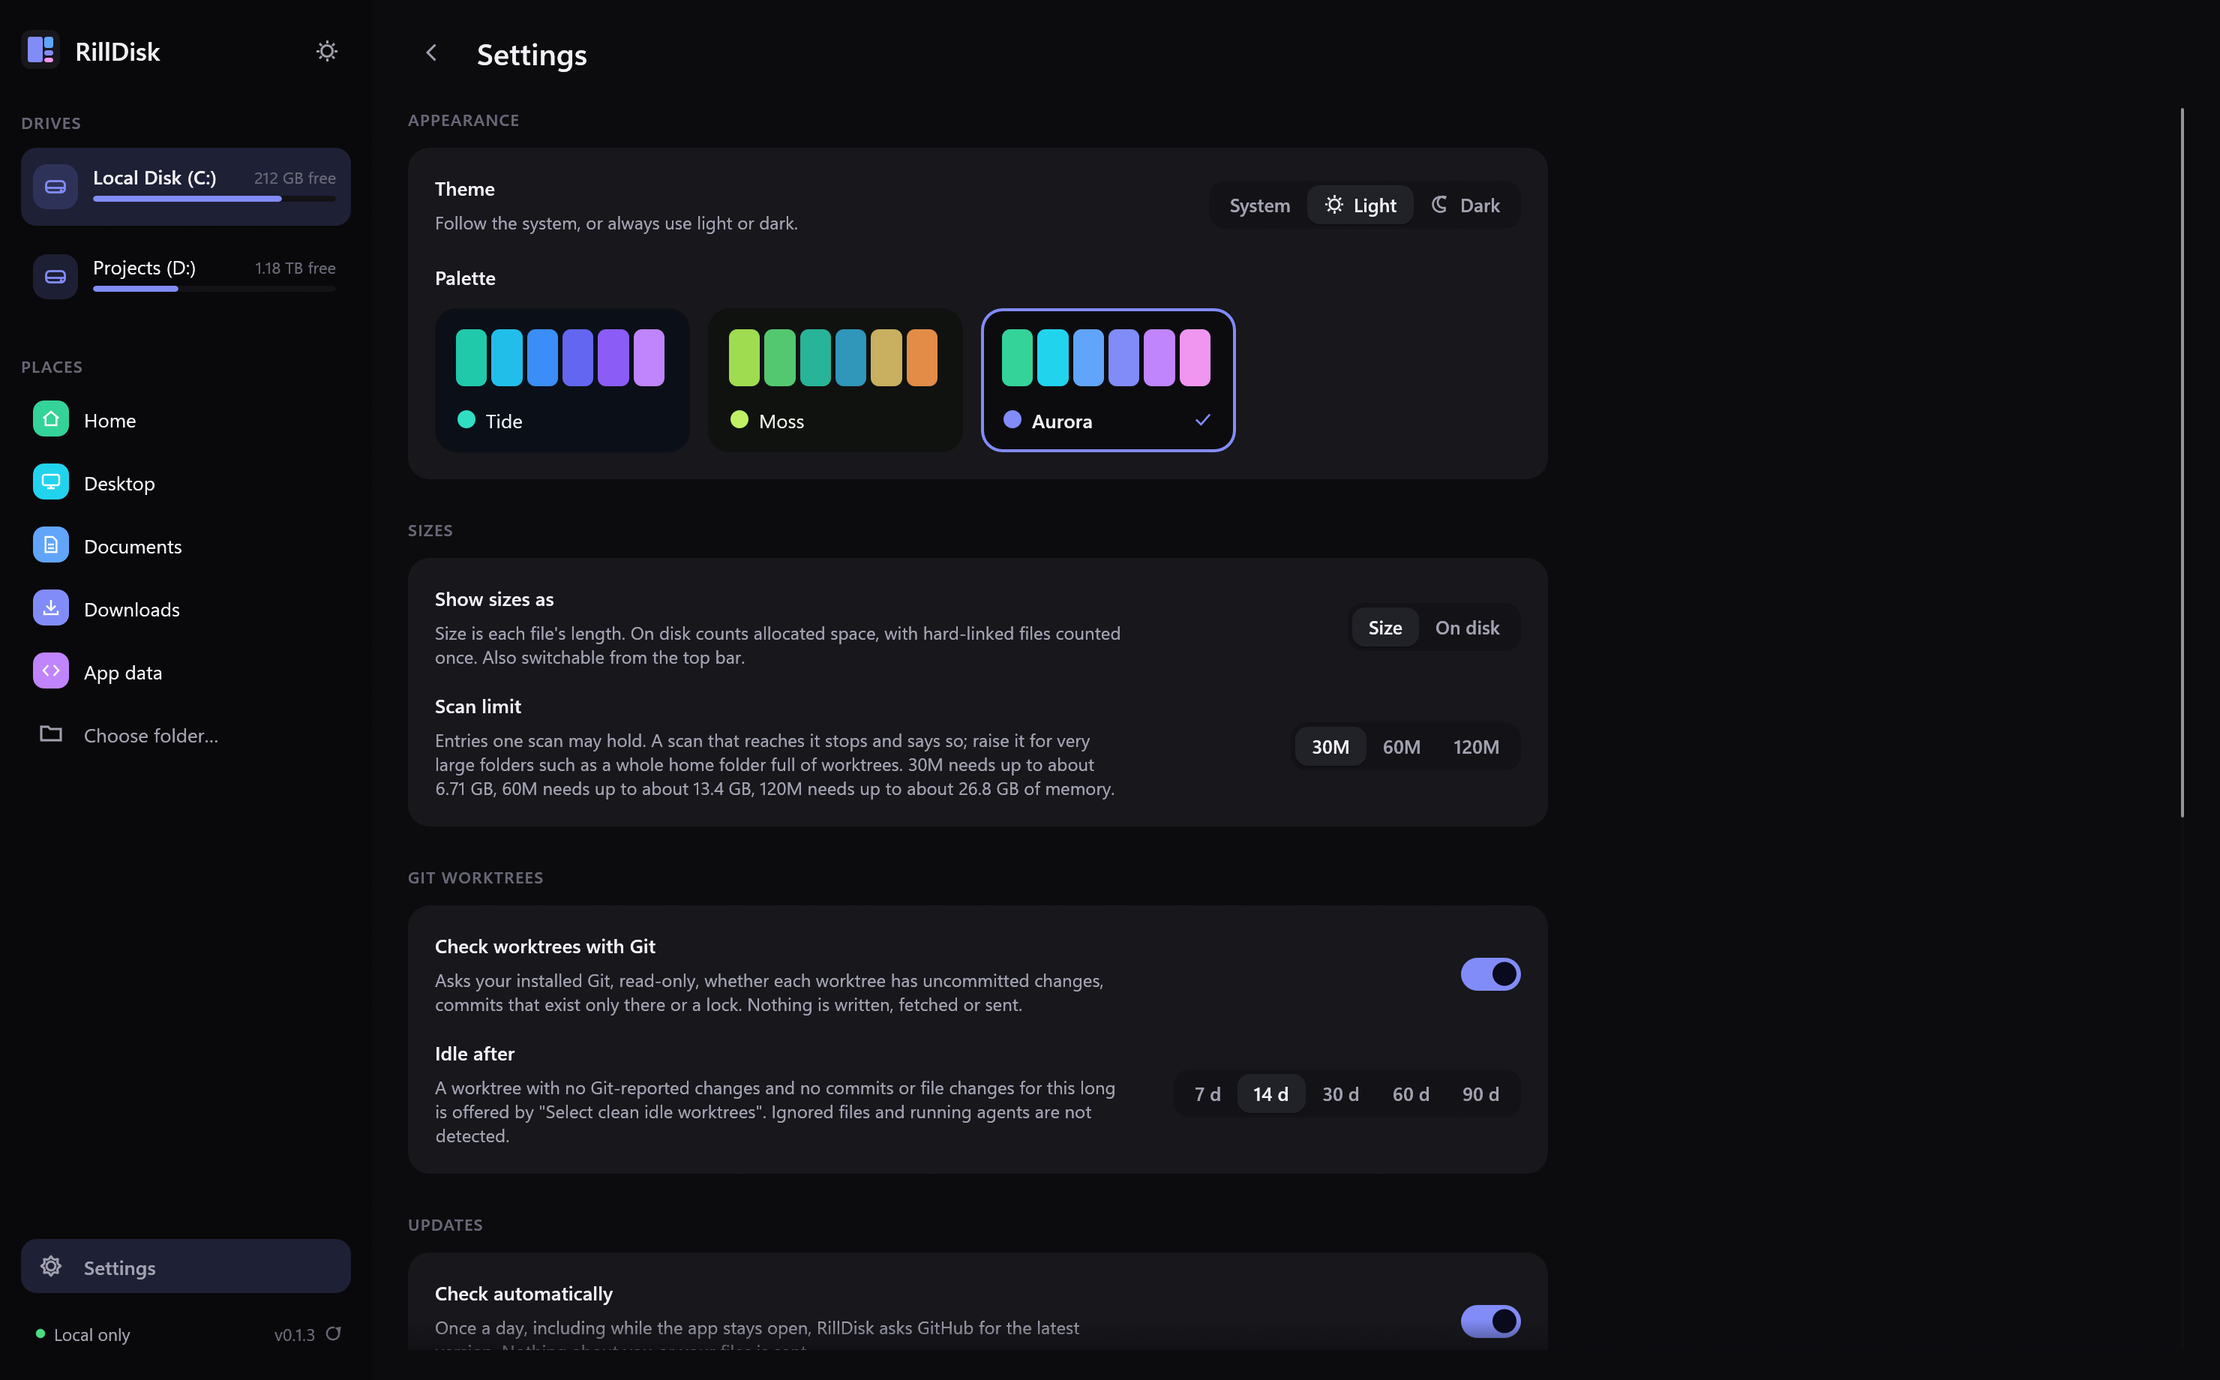
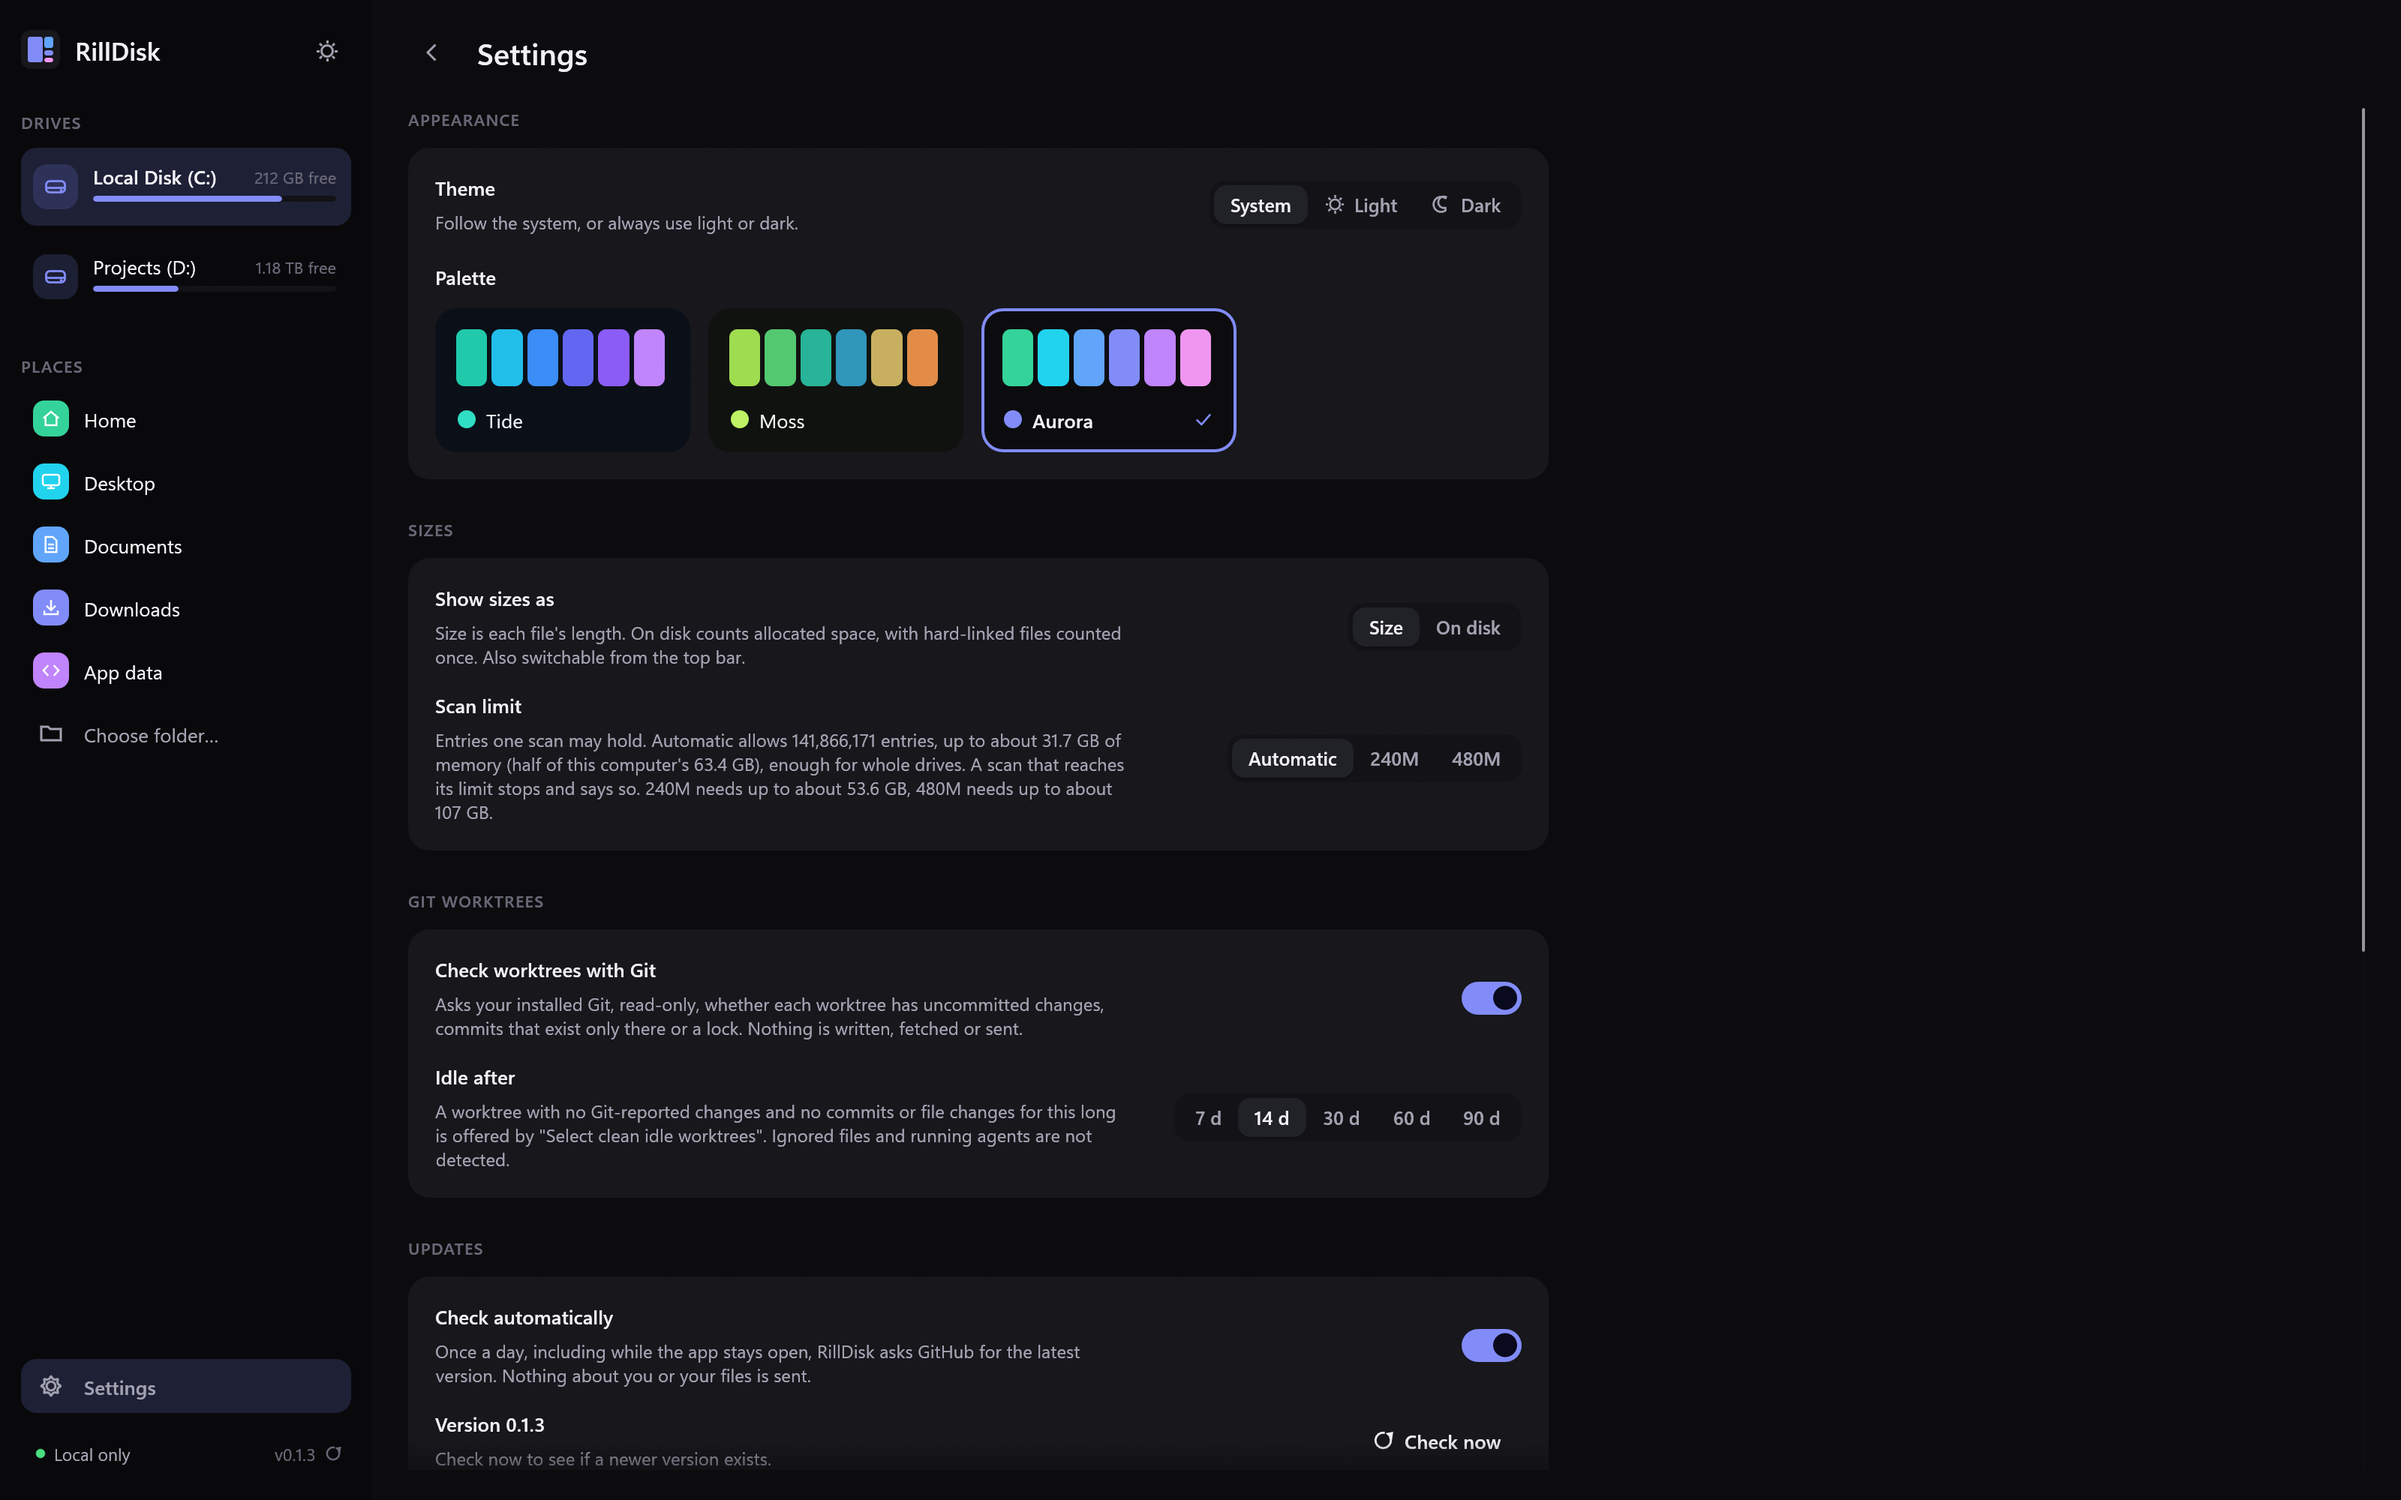
docs: record the simplified Clean up view
Adds `--tour cleanup-view`, which records the safe half, Select all safe,
one kind, the Review-first half and the Automatic scan limit on the
synthetic demo disk, and refreshes the Clean up and Settings screenshots.

diff --git a/crates/rilldisk-desktop/src/main.rs b/crates/rilldisk-desktop/src/main.rs
@@ -90,7 +90,7 @@ fn main() -> eframe::Result {
             "--help" | "-h" => {
                 attach_console();
                 println!(
-                    "rilldisk-desktop [PATH] [--theme light|dark] [--palette tide|moss|aurora] [--size WIDTHxHEIGHT] [--capture DIR [--tour issues|navigation|video|updates]] [--capture-cleanup DIR]\n\nOpens the RillDisk desktop app. PATH starts a scan immediately.\n--capture runs a scripted tour and saves screenshots to DIR (development).\n--capture-cleanup captures the cleanup dialogs; it only removes folders from a synthetic fixture.\n--version prints the version."
+                    "rilldisk-desktop [PATH] [--theme light|dark] [--palette tide|moss|aurora] [--size WIDTHxHEIGHT] [--capture DIR [--tour issues|navigation|video|cleanup-view|updates]] [--capture-cleanup DIR]\n\nOpens the RillDisk desktop app. PATH starts a scan immediately.\n--capture runs a scripted tour and saves screenshots to DIR (development).\n--capture-cleanup captures the cleanup dialogs; it only removes folders from a synthetic fixture.\n--version prints the version."
                 );
                 return Ok(());
             }
@@ -104,6 +104,7 @@ fn main() -> eframe::Result {
     }
     let navigation_tour = tour_name.as_deref() == Some("navigation");
     let video_tour = tour_name.as_deref() == Some("video");
+    let cleanup_view_tour = tour_name.as_deref() == Some("cleanup-view");
     let updates_tour = tour_name.as_deref() == Some("updates");
     let issues_tour = match tour_name.as_deref() {
         None => false,
@@ -113,7 +114,7 @@ fn main() -> eframe::Result {
             return Ok(());
         }
         Some("updates") if matches!(capture, Some((_, Capture::Tour))) => false,
-        Some("navigation" | "video")
+        Some("navigation" | "video" | "cleanup-view")
             if path.is_some() && matches!(capture, Some((_, Capture::Tour))) =>
         {
             false
@@ -137,7 +138,7 @@ fn main() -> eframe::Result {
         Some(other) => {
             attach_console();
             eprintln!(
-                "invalid --tour {other}; use `issues`, `navigation` or `video` with PATH --capture DIR, or `updates` with --capture DIR."
+                "invalid --tour {other}; use `issues`, `navigation`, `video` or `cleanup-view` with PATH --capture DIR, or `updates` with --capture DIR."
             );
             return Ok(());
         }
@@ -149,6 +150,9 @@ fn main() -> eframe::Result {
         let kind = match (path.is_none(), mode) {
             (false, Capture::Tour) if navigation_tour => return capture::Tour::navigation(dir),
             (false, Capture::Tour) if video_tour => return capture::Tour::video(dir),
+            (false, Capture::Tour) if cleanup_view_tour => {
+                return capture::Tour::cleanup_view(dir);
+            }
             (_, Capture::Cleanup) => return capture::Tour::cleanup(dir),
             (true, _) => capture::TourKind::Welcome,
             (false, _) if issues_tour => capture::TourKind::Issues,

diff --git a/crates/rilldisk-desktop/src/capture.rs b/crates/rilldisk-desktop/src/capture.rs
@@ -56,6 +56,10 @@ pub enum Step {
     CloseMenu,
     /// Clean up: show one category (or everything).
     Filter(Option<Category>),
+    /// Clean up: show the safe half or the Review-first half.
+    Half(crate::app::CleanupView),
+    /// Clean up: untick everything.
+    ClearPicks,
     /// Until Git has answered for every worktree (the fixture's real repositories).
     WaitGit,
     /// Start a caption at the next recorded frame (written to captions.json).
@@ -373,6 +377,54 @@ impl Tour {
                 ChartKind(Chart::Map),
                 Wait(10),
                 Shot("navigation-dark"),
+                Quit,
+            ],
+        )
+    }
+
+    /// The Clean up view's two halves, kind filter and bulk ticks, recorded on
+    /// the synthetic demo disk (`--tour cleanup-view`). Nothing is removed.
+    pub fn cleanup_view(dir: PathBuf) -> Self {
+        use crate::app::CleanupView::{Review, Safe};
+        use Step::*;
+        Self::with_steps(
+            dir,
+            vec![
+                Theme(true),
+                WaitData,
+                Tab(View::Cleanup),
+                WaitGit,
+                PointerAway,
+                Wait(10),
+                Shot("cleanup-view-safe"),
+                Record(true),
+                Caption("Safe to delete: folders that tools rebuild or re-download"),
+                Wait(120),
+                Caption("Select all safe ticks every one of them"),
+                SelectSafe,
+                Wait(120),
+                Shot("cleanup-view-selected"),
+                Caption("Narrow to one kind with the All kinds menu"),
+                ClearPicks,
+                Filter(Some(Category::BuildOutput)),
+                Wait(120),
+                Shot("cleanup-view-kind"),
+                Caption("Review first: folders that may hold unique work"),
+                Filter(None),
+                Half(Review),
+                Wait(120),
+                Shot("cleanup-view-review"),
+                Caption("Git says which worktrees are clean and idle"),
+                SelectCleanIdle,
+                Wait(120),
+                Shot("cleanup-view-review-selected"),
+                ClearPicks,
+                Half(Safe),
+                Wait(20),
+                Record(false),
+                Settings(true),
+                Wait(10),
+                Shot("cleanup-view-scan-limit"),
                 Quit,
             ],
         )
@@ -916,6 +968,8 @@ pub fn advance(app: &mut RillApp, ctx: &egui::Context) {
             app.category_filter = category;
             app.cleanup_view = crate::app::CleanupView::for_category(category);
         }
+        Step::Half(view) => app.cleanup_view = view,
+        Step::ClearPicks => app.picked.clear(),
         Step::Caption(text) => {
             tour.captions.push((tour.frame, text));
             let lines: Vec<String> = tour
